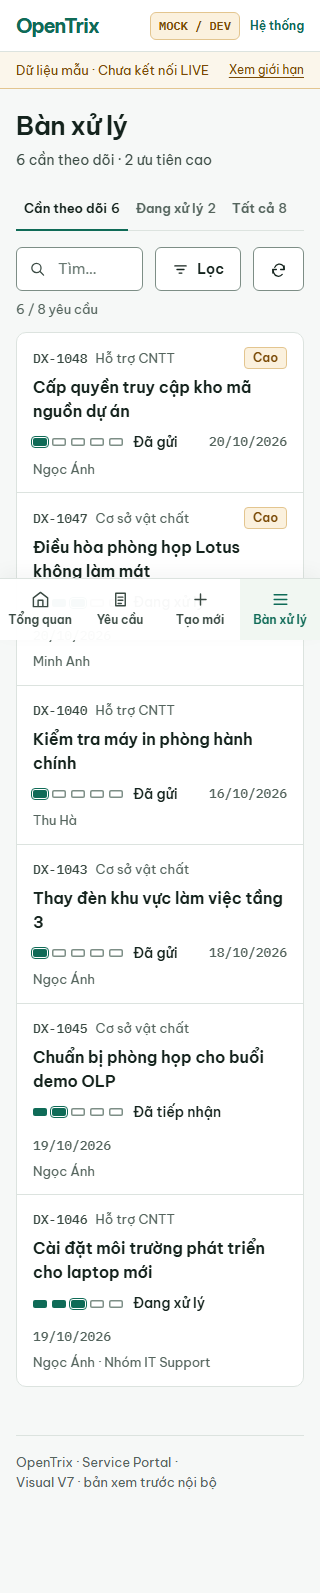
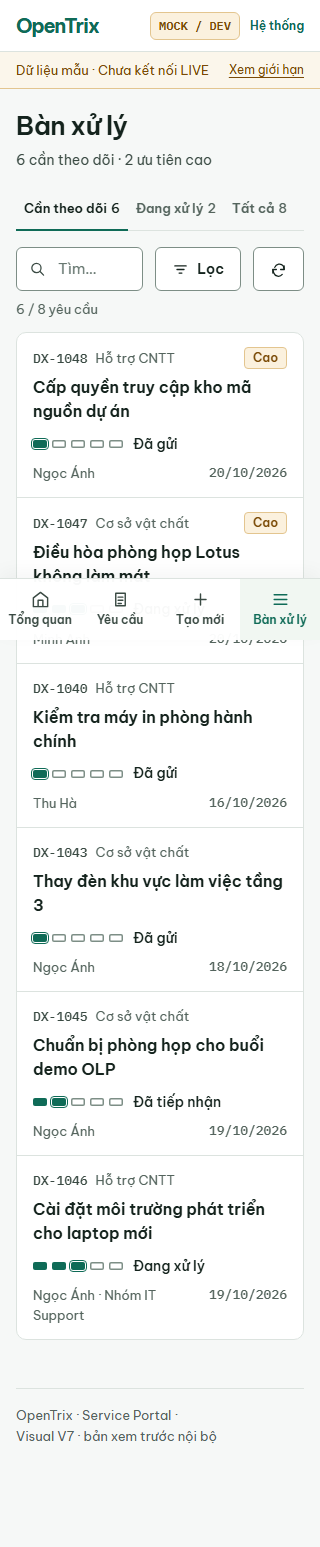
docs(portal): add V7 before/after evidence for all six screens

diff --git a/docs/evidence/opentrix-v7/README.md b/docs/evidence/opentrix-v7/README.md
@@ -3,21 +3,28 @@ SPDX-FileCopyrightText: 2026 TRICORE contributors
 SPDX-License-Identifier: Apache-2.0
 -->
 
-# OpenTrix Visual V7: evidence (Overview and Queue)
+# OpenTrix Visual V7: evidence (all six screens)
 
-Scope: MOCK/DEV React preview at `/design-v621/*` (PR #128). Stage 1 of the V7 restyle: shared tokens, Overview and Queue. Mine, Detail, Create and Integration are **not yet redesigned** (they only inherit the new tokens) and are not part of this evidence.
+Scope: MOCK/DEV React preview at `/design-v621/*` (PR #128). Stage B1 (tokens, Overview, Queue) was approved at `41590fb`; Stage B2 adds Mine, Detail, Create and Integration. Awaiting visual review of the whole set.
 
 ## Before / after
 
 "Before" is the V6.2.1 baseline in `../opentrix-v621/`; "after" is this folder. Same file names, same capture settings (real fonts loaded, animations disabled, full page).
 
-| Screen | Before | After |
-| --- | --- | --- |
-| Overview 1440 | `../opentrix-v621/desktop-1440-overview.png` | `desktop-1440-overview.png` |
-| Queue 1440 | `../opentrix-v621/desktop-1440-queue.png` | `desktop-1440-queue.png` |
-| Overview 390 | `../opentrix-v621/mobile-390-overview.png` | `mobile-390-overview.png` |
-| Queue 390 | `../opentrix-v621/mobile-390-queue.png` | `mobile-390-queue.png` |
-| Queue 320 | `../opentrix-v621/mobile-320-queue.png` | `mobile-320-queue.png` |
+| Screen | 1440 before | 1440 after | 390 before | 390 after |
+| --- | --- | --- | --- | --- |
+| Overview | `../opentrix-v621/desktop-1440-overview.png` | `desktop-1440-overview.png` | `../opentrix-v621/mobile-390-overview.png` | `mobile-390-overview.png` |
+| Queue | `../opentrix-v621/desktop-1440-queue.png` | `desktop-1440-queue.png` | `../opentrix-v621/mobile-390-queue.png` | `mobile-390-queue.png` |
+| Mine | `../opentrix-v621/desktop-1440-mine.png` | `desktop-1440-mine.png` | `../opentrix-v621/mobile-390-mine.png` | `mobile-390-mine.png` |
+| Detail (DX-1046) | `../opentrix-v621/desktop-1440-detail-DX-1046-from-queue.png` | `desktop-1440-detail-DX-1046-from-queue.png` | `../opentrix-v621/mobile-390-detail-DX-1046-from-queue.png` | `mobile-390-detail-DX-1046-from-queue.png` |
+| Create | `../opentrix-v621/desktop-1440-create.png` | `desktop-1440-create.png` | `../opentrix-v621/mobile-390-create.png` | `mobile-390-create.png` |
+| Integration | `../opentrix-v621/desktop-1440-integration.png` | `desktop-1440-integration.png` | `../opentrix-v621/mobile-390-integration.png` | `mobile-390-integration.png` |
+
+320px "after" images exist for Overview, Queue, Mine, Detail and Create (`mobile-320-*.png`). A 320px "before" exists only for Queue and Mine (`../opentrix-v621/mobile-320-{queue,mine}.png`); the V6.2.1 run did not keep the others.
+
+`mobile-390-queue-scrolled-viewport.png` is a **viewport** capture after scrolling (not full page): the fixed bottom navigation sits at the bottom edge. In the full-page images the fixed bar appears mid-image; that is a full-page-capture artefact, not a layout bug.
+
+Stage B2 also changed the mobile list rows: the status sentence (Mine) or requester/assignee (Queue) and the date now share one meta line with the date at the right, so `mobile-390-queue.png` and `mobile-320-queue.png` differ from the B1 approval images in that line only.
 
 ## Reproduce
 
@@ -25,22 +32,24 @@ Scope: MOCK/DEV React preview at `/design-v621/*` (PR #128). Stage 1 of the V7 r
 cd frontend
 npm ci && npx playwright install chromium
 npm run build
-npm run test:preview                              # 35 tests
-SAVE_EVIDENCE=1 npm run test:preview -- -g axe    # rewrite the images (Overview and Queue only)
-npm test                                          # Vitest (58 preview tests)
+npm run test:preview                              # 43 tests
+SAVE_EVIDENCE=1 npm run test:preview -- -g axe    # rewrite the images
+npm test                                          # Vitest (77 preview tests)
 ```
 
 CI runs only build and Vitest; Playwright is not in CI. `playwright-summary.json` is the per-test result of the last local run.
 
 ## Measured, not assumed
 
-- **Table to rows breakpoint = 1040px.** With Be Vietnam Pro loaded, the 7-column Queue table does not clip down to ~920px, but the title column drops below 240px and wraps to 2 lines under 1040px (233px at 1000, 206px at 960). The Playwright test `queue table is never clipped…` checks table width, title width (>= 240px) and lines (<= 2) from 1041 to 1500px.
-- **Leaked global CSS fixed.** `main { padding: 34px 35px … }` from `src/styles.css` pushed preview content 35px right of the topbar. A test asserts topbar brand, notice strip and `h1` share one left edge at 390, 1100 and 1440px.
-- **200% zoom** is only *emulated* as a 720x450 CSS viewport (no overflow, axe 0 violations); real browser zoom was not run.
+- **Table to rows breakpoint = 1040px** for both Queue and Mine. With Be Vietnam Pro loaded the Queue title column drops below 240px / 2 lines under 1040px; tests check no clipping, title width >= 240px and <= 2 lines from 1041 to 1500px (Mine too).
+- **One left edge.** Topbar, environment strip and page content share the same left edge at 390, 1100 and 1440px (global `main` padding no longer leaks in).
+- **Mobile row meta.** At 320, 360, 390 and 760px every Mine and Queue row keeps its date on the first line of the meta block, right aligned, with no overflow.
+- **Bottom navigation** is `position: fixed` and sits on the viewport bottom edge at 0%, 50% and 100% scroll on Queue, Mine, Detail, Create and Integration at 390x844 (real Chromium scrolling, emulated viewport); the footer always ends above it.
+- **200% zoom** is only *emulated* as a 720x450 CSS viewport (no overflow, axe 0 violations) for Overview and Queue.
 
 ## Not run
 
-Screen readers (NVDA/VoiceOver), real devices, real browser zoom, Web Vitals, user testing. axe passing is not a WCAG sign-off.
+Screen readers (NVDA/VoiceOver), physical devices and Safari/iOS bottom-bar behaviour, real browser zoom, Web Vitals, user testing. axe passing is not a WCAG sign-off.
 
 ## Licensing
 

diff --git a/CHANGELOG.md b/CHANGELOG.md
@@ -13,7 +13,7 @@ User-visible DX-OS Open Core changes are recorded here. The format follows
 
 ### Added
 
-- Portal: OpenTrix Visual V7 restyle of the `/design-v621/*` preview (Workflow Rail, Overview with step distribution, Queue table/rows). MOCK/DEV only, no data or behaviour change.
+- Portal: OpenTrix Visual V7 restyle of the `/design-v621/*` preview (Workflow Rail, Overview with step distribution, Queue, Mine, Detail, Create and Integration). MOCK/DEV only, no data or behaviour change.
 - Portal: OpenTrix V6.2.1 design preview at `/design-v621/*` (React, MOCK/DEV only, lazy-loaded, isolated from the existing routes). Uses its own preview fixtures; no service, LIVE call or `allowedActions` is introduced. Self-hosts IBM Plex Mono (OFL-1.1) alongside Be Vietnam Pro.
 
 ## [0.1.0] - 2026-11-04
